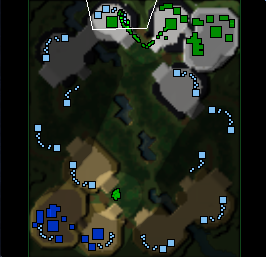
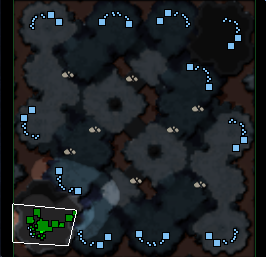
adding indicator of building placement success or failure

diff --git a/screenshot_maker.py b/screenshot_maker.py
@@ -219,8 +219,31 @@ def selected_single_handle(image, selected_singles, debug = False):
         output = min_dist[1]
     else:
         output = ''
-
     selected_singles[0] = output
+
+def building_autorisation_handle(image, building_auth, debug = False):
+    build_img = image[615:640, 3:80, 2]
+    build_img = prepare_for_matching(build_img, 230)
+    if debug:
+        cv2.imwrite(current_dir + "building_autorisation.png", build_img)
+
+    # loading templates
+    templates = []
+    templates.append(cv2.imread(str(pathlib.Path(__file__).parent.absolute()) + "\\templates\\building_authorisation\\cant.png", cv2.IMREAD_GRAYSCALE))
+    templates.append(cv2.imread(str(pathlib.Path(__file__).parent.absolute()) + "\\templates\\building_authorisation\\geys.png", cv2.IMREAD_GRAYSCALE))
+
+    # matching each character with each template and keeping best match
+    matches = []
+    for i in range(len(templates)):
+        res = cv2.matchTemplate(build_img, templates[i], cv2.TM_CCOEFF_NORMED)
+        _, max_val, _, _ = cv2.minMaxLoc(res)
+        matches.append(max_val)
+    max_value = max(matches)
+    
+    if max_value >= 0.8:
+        building_auth[0] = False
+    else:
+        building_auth[0] = True
 
 def minimap_handle(image, minimaps):
     minimaps[0] = image[808:1065, 25:291]
@@ -261,7 +284,11 @@ def extraction_handle(image, minerals, gases):
         if slash == -1:
             print("ERROR: no / found")
         else:
-            mineral_list.append(((int(extraction[:slash]), int(extraction[slash + 1:])), (pt[0] + mineral_temp.shape[0] - 1, pt[1] + mineral_temp.shape[1] - 1)))
+            left = int(extraction[:slash])
+            right = int(extraction[slash + 1:])
+            if right > 16: # the program often get mistaken between 6 and 8 (tells 12/18 instead of 12/16), this acts as a patch for now since mineral patches can handle 16 workers max
+                right = 16
+            mineral_list.append(((left, right), (pt[0] + mineral_temp.shape[0] - 1, pt[1] + mineral_temp.shape[1] - 1)))
 
     gas_list = []
     for pt in zip(*loc_gas[::-1]):
@@ -296,6 +323,7 @@ class screen_info:
     idle_workers = [None]*1             # int
     army_units = [None]*1               # int
     selected_single = [None]*1          # string
+    building_autorisation = [None]*1    # bool
     mineral_extraction_infos = [None]*1 # list of ((int, int), (int, int)) corresponding to (( nb_workers/workers_max ), ( position_x, position_y )) where position is click position to select the command center
     gas_extraction_infos = [None]*1     # list of ((int, int), (int, int)) corresponding to (( nb_workers/workers_max ), ( position_x, position_y )) where position is click position to select the refinery
     base_locations = []                 # list of base locations on minimap
@@ -317,7 +345,8 @@ class screen_info:
     get_selected_group = True,
     get_game_image = True,
     get_extraction_rate = True,
-    get_mineral_locations = False): # should only be called once at game startup
+    get_mineral_locations = False,      # should only be called once at game startup
+    get_building_autorisation = False):
 
         image = []
         with mss.mss() as mss_instance:
@@ -325,7 +354,7 @@ class screen_info:
             image = cv2.cvtColor(np.array(mss_instance.grab(monitor)), cv2.COLOR_BGRA2BGR)
 
         # declaring threads
-        threads = [None, None, None, None, None, None, None, None, None, None, None]
+        threads = [None, None, None, None, None, None, None, None, None, None, None, None]
         if get_supply:
             threads[0] = Thread(target=supply_handle, args=(image, self.supply_left, self.supply_right, debug))
         if get_mineral:
@@ -338,16 +367,18 @@ class screen_info:
             threads[4] = Thread(target=army_units_handle, args=(image, self.army_units, debug))
         if get_selected_single:
             threads[5] = Thread(target=selected_single_handle, args=(image, self.selected_single, debug))
+        if get_building_autorisation:
+            threads[6] = Thread(target=building_autorisation_handle, args=(image, self.building_autorisation, debug))
         if get_minimap:
-            threads[6] = Thread(target=minimap_handle, args=(image, self.minimap))
+            threads[7] = Thread(target=minimap_handle, args=(image, self.minimap))
         if get_building:
-            threads[7] = Thread(target=building_handle, args=(image, self.building))
+            threads[8] = Thread(target=building_handle, args=(image, self.building))
         if get_selected_group:
-            threads[8] = Thread(target=selected_group_handle, args=(image, self.selected_group))
+            threads[9] = Thread(target=selected_group_handle, args=(image, self.selected_group))
         if get_game_image:
-            threads[9] = Thread(target=game_handle, args=(image, self.game))
+            threads[10] = Thread(target=game_handle, args=(image, self.game))
         if get_extraction_rate:
-            threads[10] = Thread(target=extraction_handle, args=(image, self.mineral_extraction_infos, self.gas_extraction_infos))
+            threads[11] = Thread(target=extraction_handle, args=(image, self.mineral_extraction_infos, self.gas_extraction_infos))
         
         # running threads
         for i in threads:
@@ -370,6 +401,7 @@ class screen_info:
         self.idle_workers = self.idle_workers[0]
         self.army_units = self.army_units[0]
         self.selected_single = self.selected_single[0]
+        self.building_autorisation = self.building_autorisation[0]
         self.mineral_extraction_infos = self.mineral_extraction_infos[0]
         self.gas_extraction_infos = self.gas_extraction_infos[0]
 
@@ -402,22 +434,34 @@ class screen_info:
                     cv2.imwrite(current_dir + "locations.png", locations)
             
             if debug:
+                cv2.imwrite(current_dir + "minimap.png", self.minimap)
                 cv2.imwrite(current_dir + "ressources.png", self.resources_mask)
                 cv2.imwrite(current_dir + "allies.png", self.allies_mask)
                 cv2.imwrite(current_dir + "enemies.png", self.enemies_mask)
 
         if debug:
-            print("supply =                   " + str(self.supply_left) + "/" + str(self.supply_right))
-            print("mineral =                  " + str(self.minerals))
-            print("gas =                      " + str(self.gas))
-            print("idle_workers =             " + str(self.idle_workers))
-            print("army_units =               " + str(self.army_units))
-            print("selected_single =          " + str(self.selected_single))
-            print("mineral_extraction_infos = " + str(self.mineral_extraction_infos))
-            print("gas_extraction_infos =     " + str(self.gas_extraction_infos))
-            
-            cv2.imwrite(current_dir + "minimap.png", self.minimap)
-            cv2.imwrite(current_dir + "building.png", self.building)
-            cv2.imwrite(current_dir + "selected_group.png", self.selected_group)
-            cv2.imwrite(current_dir + "game.png", self.game)
+            if get_supply:
+                print("supply =                   " + str(self.supply_left) + "/" + str(self.supply_right))
+            if get_mineral:
+                print("mineral =                  " + str(self.minerals))
+            if get_gas:
+                print("gas =                      " + str(self.gas))
+            if get_idle_workers:
+                print("idle_workers =             " + str(self.idle_workers))
+            if get_army_units:
+                print("army_units =               " + str(self.army_units))
+            if get_selected_single:
+                print("selected_single =          " + str(self.selected_single))
+            if get_extraction_rate:
+                print("mineral_extraction_infos = " + str(self.mineral_extraction_infos))
+                print("gas_extraction_infos =     " + str(self.gas_extraction_infos))
+            if get_building_autorisation:
+                print("building_autorisation =    " + str(self.building_autorisation))
+
+            if get_building:
+                cv2.imwrite(current_dir + "building.png", self.building)
+            if get_selected_group:
+                cv2.imwrite(current_dir + "selected_group.png", self.selected_group)
+            if get_game_image:
+                cv2.imwrite(current_dir + "game.png", self.game)
             cv2.imwrite(current_dir + "screenshot.png", image)

diff --git a/main.py b/main.py
@@ -7,7 +7,7 @@ import pyautogui
 time.sleep(4)
 
 start_time = time.time()
-screen_infos = screenshot_maker.screen_info(True, get_mineral_locations=True)
+screen_infos = screenshot_maker.screen_info(True, get_mineral_locations=True, get_building_autorisation=True)
 print("%s sec" % (time.time() - start_time))
 
 '''
